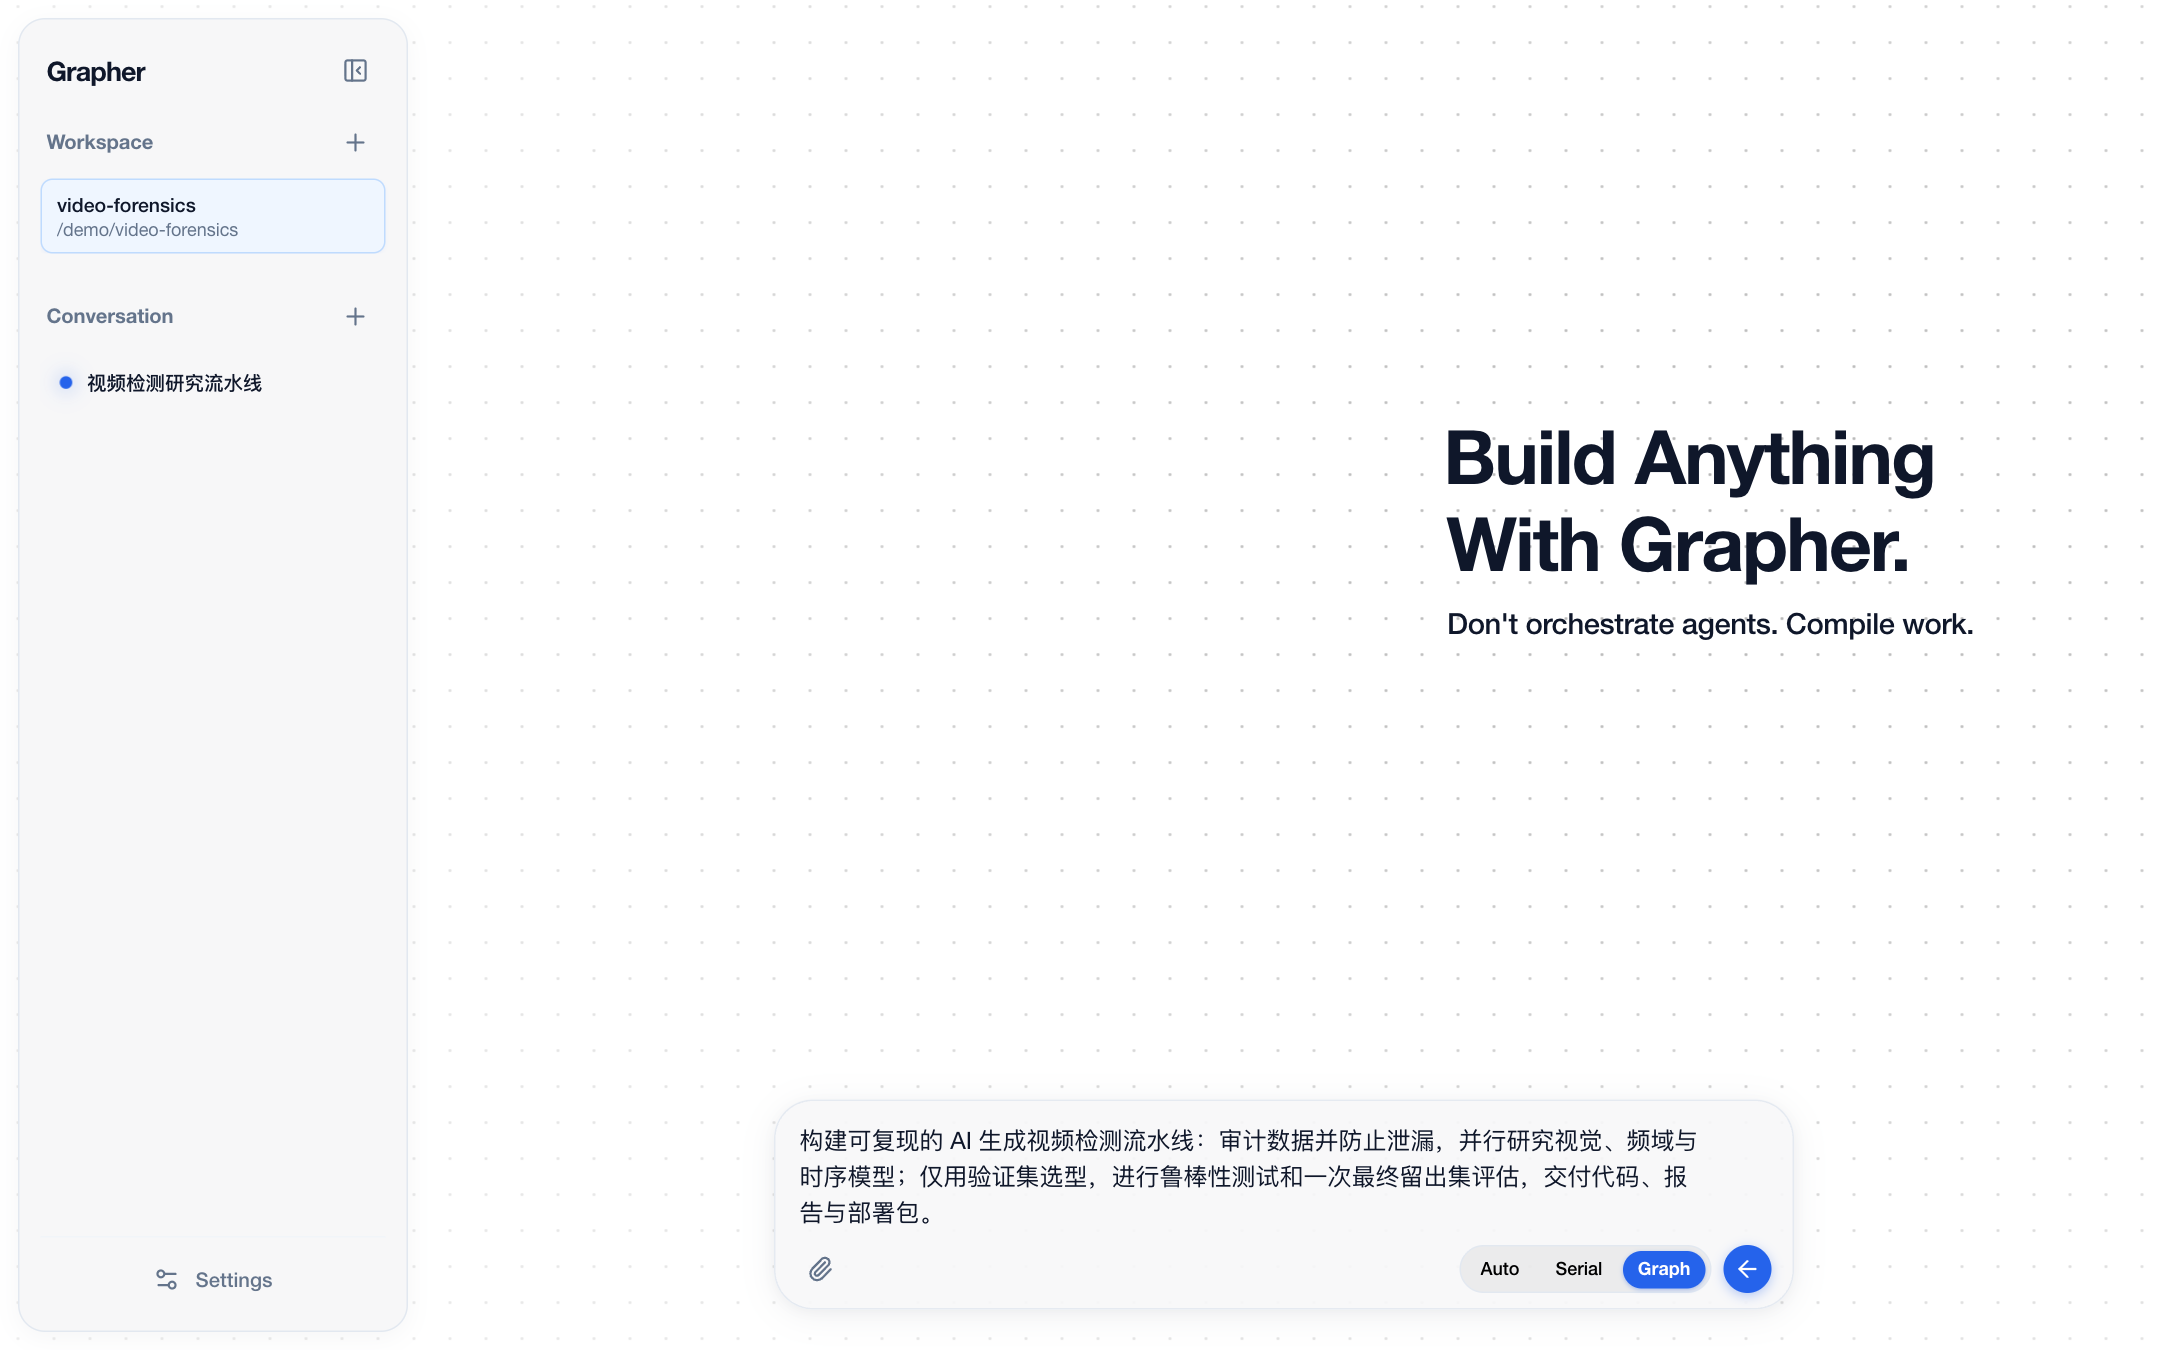
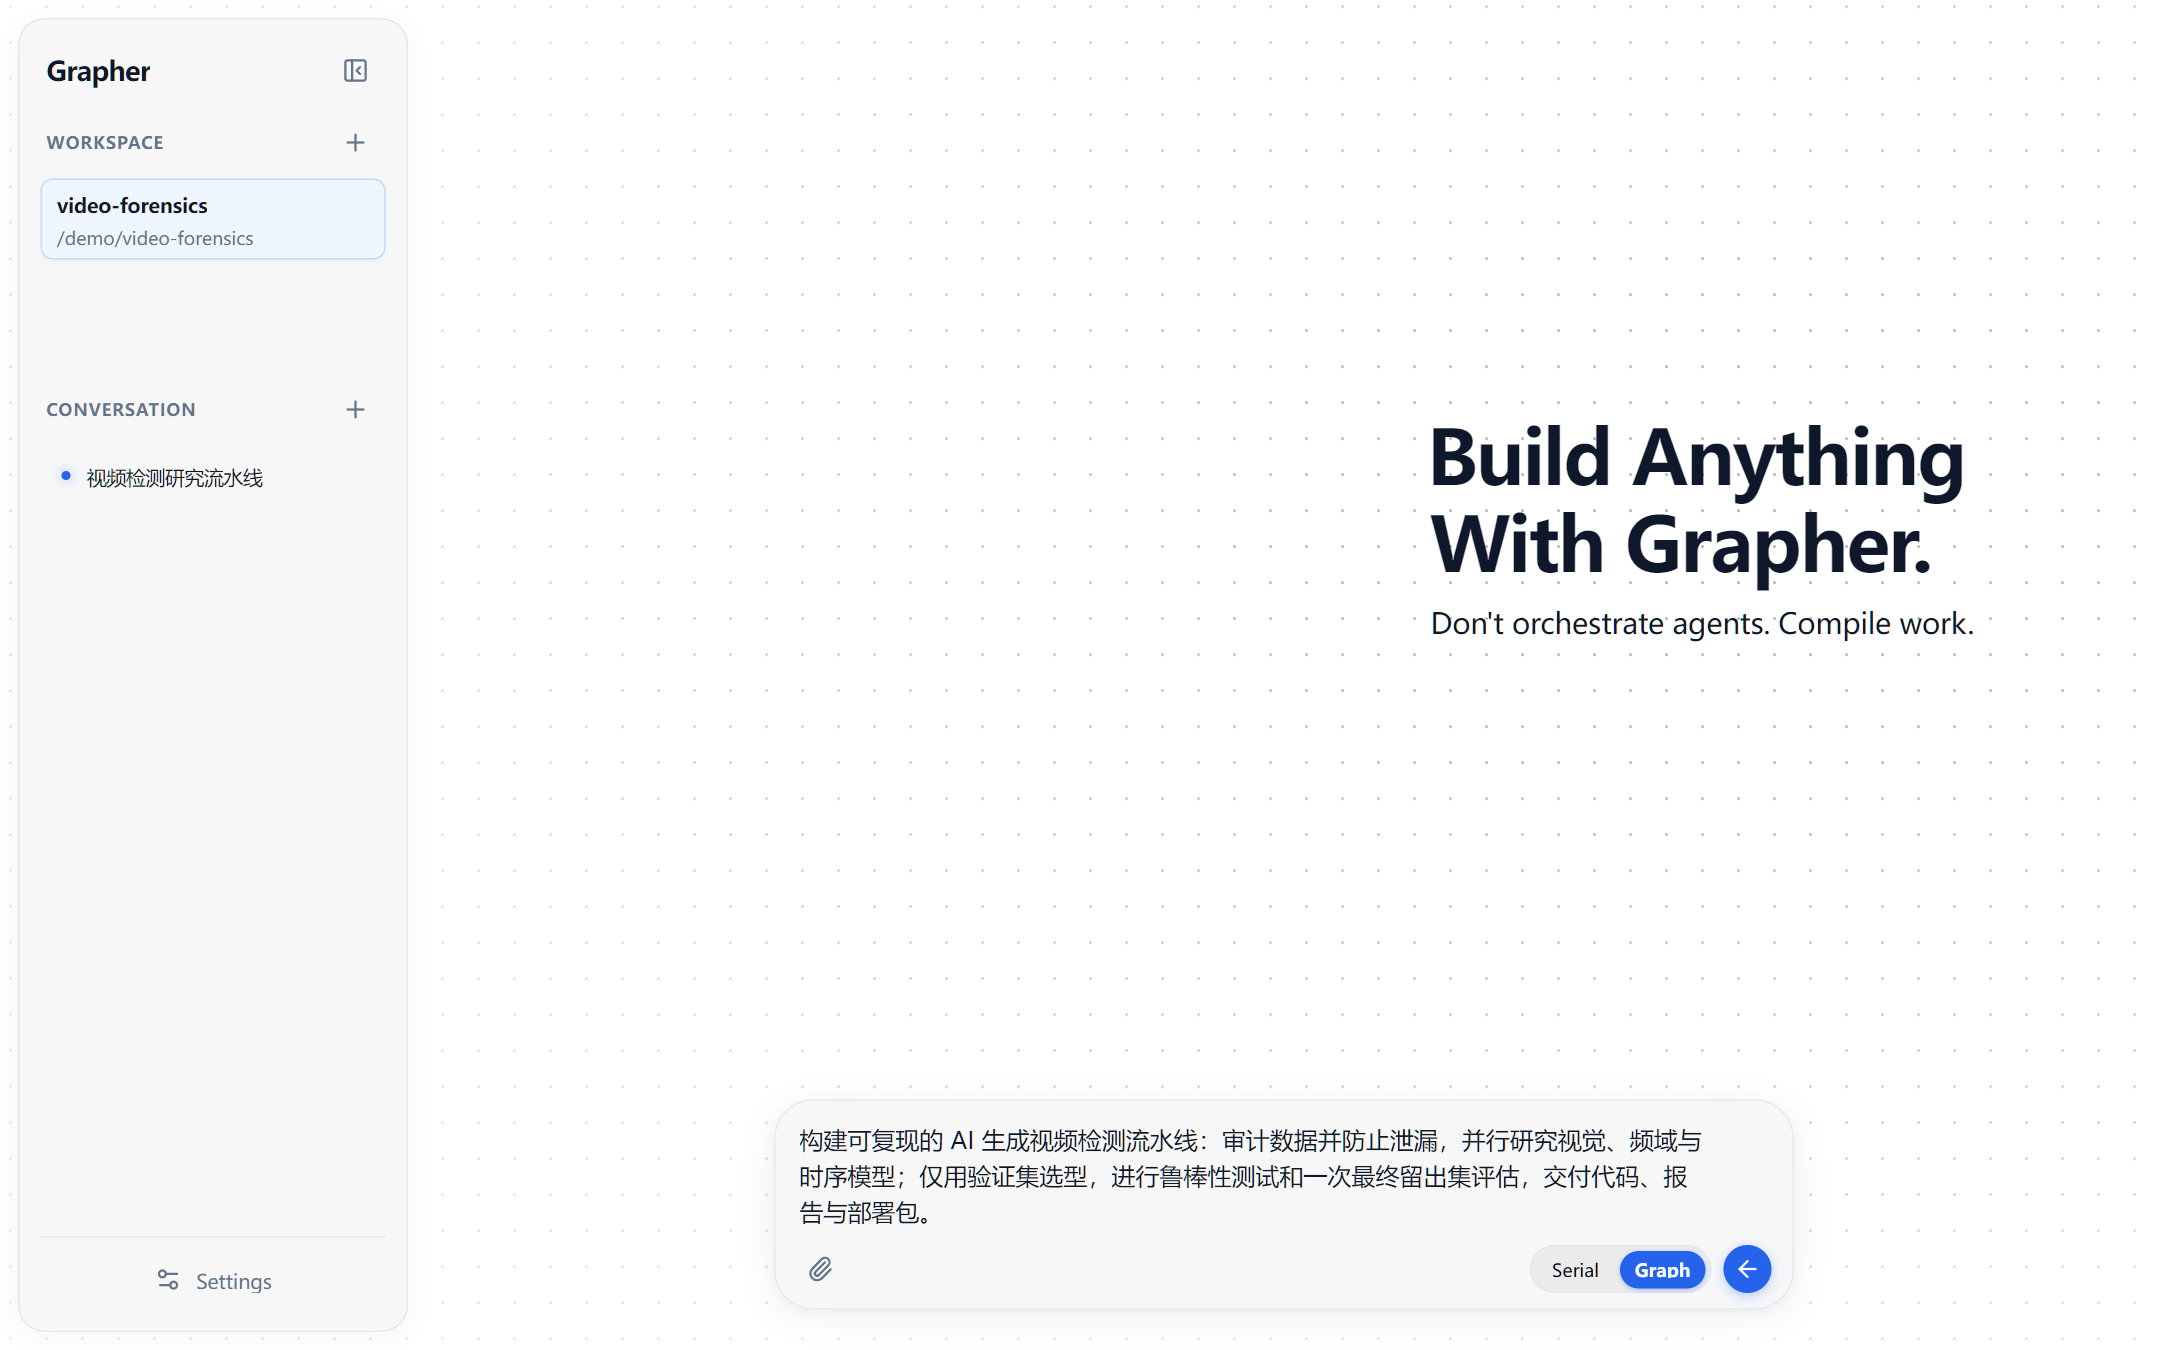
docs: refresh README screenshots for current UI

diff --git a/README.md b/README.md
@@ -28,8 +28,8 @@
 </p>
 
 <p align="center">
-  <img src="assets/readme-graph.png" width="100%" alt="Grapher workbench showing a 21-node video detection research plan awaiting approval">
-  <br><sub>From a complex goal to an inspectable 21-node execution graph with parallel branches and bounded feedback.</sub>
+  <img src="assets/readme-graph.png" width="100%" alt="Current Grapher workbench showing a 21-node example video detection research plan awaiting approval">
+  <br><sub>Current UI with a 21-node example plan: parallel branches, execution batches and bounded feedback. Shown with manual approval enabled; not a completed run.</sub>
 </p>
 
 ## Typical multi-agent systems vs Grapher
@@ -64,19 +64,11 @@ Goal → Planner → Compiled Graph → Deterministic Runtime
 - **Inspectable execution graph & loop engineering** — See dependencies, parallel branches, and bounded rework in the UI. Auto Approve and post-task Planner review default on for autonomous multi-turn iteration; turn off Auto Approve to review each graph before execution.
 - **Local-first** — Run on your machine and publish valid Graph results back to your codebase before declaring completion. Model requests still go to your configured provider.
 
-<details>
-<summary><strong>See a completed 16-node run in the earlier UI</strong></summary>
-<p align="center">
-  <img src="assets/execution-graph.png" width="100%" alt="Earlier Grapher interface showing a machine-learning run marked 16 of 16 nodes completed">
-  <br><sub>Actual Grapher UI showing a 16-node execution graph compiled and executed for a multi-stage machine-learning task.</sub>
-</p>
-</details>
-
 ## When should I use Grapher?
 
 <p align="center">
-  <img src="assets/readme-home.png" width="100%" alt="Grapher's home screen with a video detection research goal and Auto, Serial, and Graph mode controls">
-  <br><sub>Start with a goal, then choose the route that fits the work: Auto, Serial, or Graph.</sub>
+  <img src="assets/readme-home.png" width="100%" alt="Current Grapher home screen with a video detection research goal and Serial and Graph mode controls">
+  <br><sub>Start with a goal, then choose Serial or Graph. Auto can be enabled in Harness settings.</sub>
 </p>
 
 **More agents are not always better.** Grapher works best when a coding task contains independent workstreams, for example:

diff --git a/README.zh-CN.md b/README.zh-CN.md
@@ -28,8 +28,8 @@
 </p>
 
 <p align="center">
-  <img src="assets/readme-graph-zh.png" width="100%" alt="Grapher 工作台：视频检测研究任务被规划为等待批准的 21 节点执行图">
-  <br><sub>从复杂目标到可检查的 21 节点执行图，直观呈现并行分支、依赖拓扑与有界反馈。</sub>
+  <img src="assets/readme-graph-zh.png" width="100%" alt="当前 Grapher 工作台：等待批准的视频检测研究示例计划，包含 21 个节点">
+  <br><sub>当前 UI 中的 21 节点示例计划：直观呈现并行分支、执行批次与有界反馈。图中已开启手动审批，并非已完成的运行记录。</sub>
 </p>
 
 ## 典型多智能体系统 vs Grapher
@@ -64,19 +64,11 @@ Grapher
 - **可检查的执行图与闭环迭代** — 在 UI 中查看依赖、并行分支和有界返工。自动批准和任务后 Planner 复盘默认开启，支持多轮自主迭代（Loop Engineering）；关闭自动批准可在执行前逐图审核。
 - **本地优先** — 在你的机器上运行，并在宣告完成前把有效的 Graph 结果发布回代码库。模型请求仍会发送给你配置的服务商。
 
-<details>
-<summary><strong>查看旧版界面中的 16 节点实际完成记录</strong></summary>
-<p align="center">
-  <img src="assets/execution-graph-zh.png" width="100%" alt="旧版 Grapher 界面：机器学习任务的 16 个节点均显示已完成">
-  <br><sub>真实 Grapher 界面，展示复杂机器学习任务编译生成的 16 节点执行拓扑图与全流程完成记录。</sub>
-</p>
-</details>
-
 ## 什么时候应该使用 Grapher？
 
 <p align="center">
-  <img src="assets/readme-home-zh.png" width="100%" alt="Grapher 首页：输入视频检测研究目标，并可选择 Auto、Serial 或 Graph 模式">
-  <br><sub>从一个目标出发，选择适合当前任务的执行路线：Auto、Serial 或 Graph。</sub>
+  <img src="assets/readme-home-zh.png" width="100%" alt="当前 Grapher 首页：输入视频检测研究目标，并可选择 Serial 或 Graph 模式">
+  <br><sub>从一个目标出发，选择 Serial 或 Graph；Auto 可在 Harness 设置中开启。</sub>
 </p>
 
 **Agent 并不是越多越好。** Grapher 最适合包含独立工作流的编程任务，例如：

diff --git a/.github/repository-homepage.md b/.github/repository-homepage.md
@@ -54,6 +54,8 @@ gh repo view zhexusun10/grapher --json description,homepageUrl,repositoryTopics
 - [Chinese product homepage](../README.zh-CN.md)
 - [Canonical documentation index](../docs/index.md)
 
-The primary README screenshots show the current frontend with a hand-authored 21-node research-plan fixture. The graph is awaiting approval; it does not demonstrate execution success, benchmark performance or a graph-size limit. The optional historical screenshot shows an earlier UI with a 16-node run marked complete. To refresh the screenshots, install the project dependencies and Playwright Chromium (`npx playwright install chromium`), then run `node scripts/readme-screenshots.mjs` from the repository root. The capture mocks the API and does not require a backend, a real project or provider credentials.
+The English and Chinese README screenshots show the current frontend with a hand-authored 21-node research-plan fixture. The graph has Auto Approve disabled and is awaiting approval; it does not demonstrate execution success, benchmark performance or a graph-size limit. The home screen uses the default Serial / Graph controls (Auto is hidden).
+
+To refresh all four screenshots, install the project dependencies and Playwright Chromium (`npx playwright install chromium`), then run `node scripts/readme-screenshots.mjs` from the repository root. Windows uses installed Microsoft Edge by default; `GRAPHER_BROWSER_CHANNEL` can select another installed browser. The capture mocks the API and does not require a backend, a real project or provider credentials. Review both languages and keep README captions aligned with the captured controls; do not mix historical UI screenshots into the current showcase.
 
 Maintainer checks belong in development documentation or issue tracking, not the product README.
